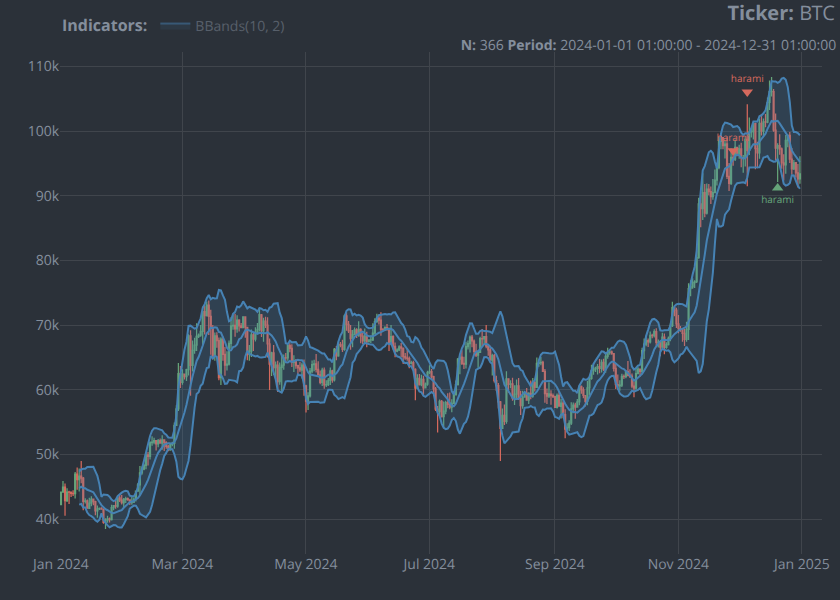
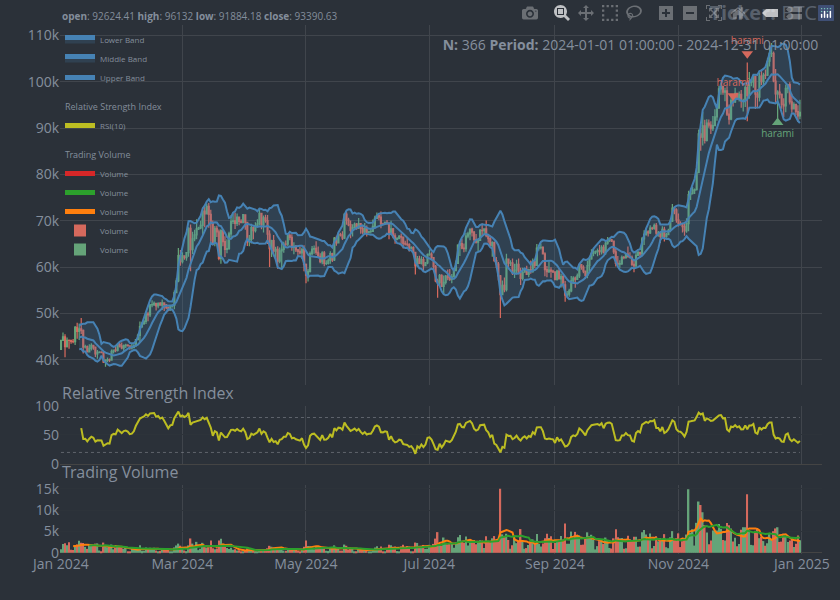
:books: Updated README
* Added RSI and Volume to charts

diff --git a/README.md b/README.md
@@ -125,6 +125,16 @@ Below is an example on how to use `chart()` and `indicator()`.
         talib::bollinger_bands
     )
 
+    ## chart RSI
+    talib::indicator(
+        talib::RSI
+    )
+
+    ## chart volume
+    talib::indicator(
+        talib::trading_volume
+    )
+
     ## identify 'Harami'-patterns
     ## from the last 66 candles and
     ## chart 
